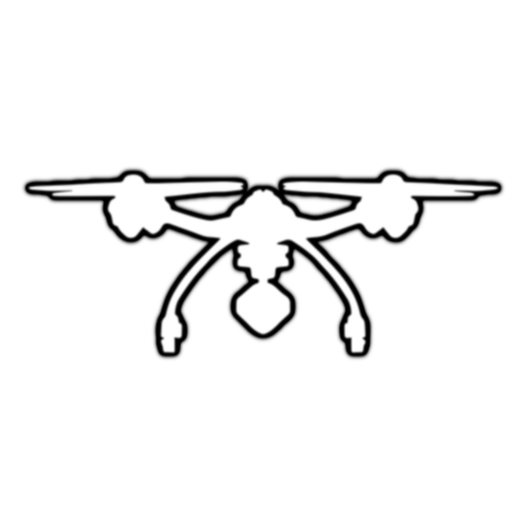
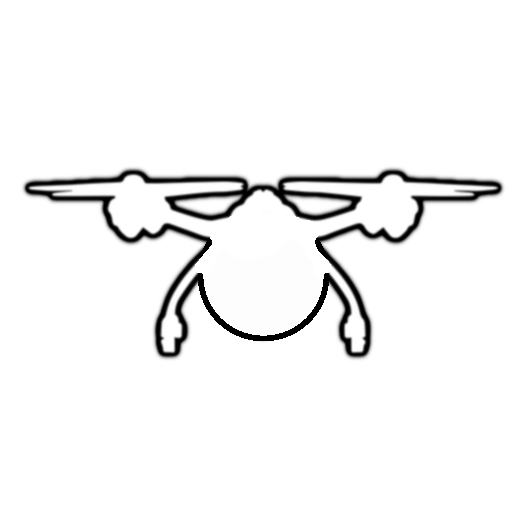
twaek(visualization): display drones id

Changed region(s): [[0.3643, 0.425, 0.6376, 0.6679]]

diff --git a/src/fly_in/visualizer.py b/src/fly_in/visualizer.py
@@ -64,11 +64,9 @@ class VNode(pygame.sprite.Sprite):
             original_height = self.original_text_surface.get_height()
             new_width = int(original_width * scale)
             new_height = int(original_height * scale)
-            new_size_w = max(1, new_width)
-            new_size_h = max(1, new_height)
             self.last_scale = scale
             self.text_surface = pygame.transform.smoothscale(
-                self.original_text_surface, (new_size_w, new_size_h))
+                self.original_text_surface, (new_width, new_height))
             self.text_rect = self.text_surface.get_rect(center=(x, y))
         self.rect.center = (x, y)
         self.text_rect.centerx = self.rect.centerx
@@ -89,7 +87,8 @@ class VConnection(pygame.sprite.Sprite):
 
 
 class VDrone(pygame.sprite.Sprite):
-    def __init__(self, position: Node | Connection,
+    def __init__(self, position: Node | Connection, id: int,
+                 font: pygame.font.Font,
                  screen_x: int, screen_y: int, *groups: Any):
         super().__init__(*groups)
 
@@ -99,17 +98,35 @@ class VDrone(pygame.sprite.Sprite):
         self.image = self.original_image.copy()
         self.rect = self.image.get_rect(center=(screen_x, screen_y))
         self.pos = position
+        self.id = id
         self.last_scale = 1.0
+        self.original_text_surf = font.render(str(self.id),
+                                              True, (0, 0, 0))
+        self.text_rect = self.original_text_surf.get_rect()
+        self.text_surf = self.original_text_surf.copy()
 
     def draw(self, screen: pygame.Surface) -> None:
         screen.blit(self.image, self.rect)
+        screen.blit(self.text_surf, self.text_rect)
 
     def update(self, x: int, y: int, scale: float) -> None:
         if scale != self.last_scale:
             self.last_scale = scale
             self.image = pygame.transform.scale_by(self.original_image, scale)
             self.rect = self.image.get_rect(center=(x, y))
+
+            original_width = self.original_text_surf.get_width()
+            original_height = self.original_text_surf.get_height()
+            new_width = int(original_width * scale)
+            new_height = int(original_height * scale)
+            self.last_scale = scale
+            self.text_surf = pygame.transform.smoothscale(
+                self.original_text_surf, (new_width, new_height))
+            self.text_rect = self.text_surf.get_rect(
+                center=self.rect.center)
         self.rect.center = (x, y)
+        self.text_rect = self.text_surf.get_rect(
+            center=(x, y))
 
 
 class VExitState(Enum):
@@ -299,6 +316,7 @@ class Visualizer():
         self.font_title = pygame.font.SysFont("Segoe UI", 48, bold=True)
         self.font = pygame.font.SysFont("Segoe UI", 24, bold=True)
         self.font_small = pygame.font.SysFont("Segoe UI", 16)
+        self.font_small_bold = pygame.font.SysFont("Segoe UI", 16, bold=True)
         self.screen = screen
 
         self.cur_turn = 0.0
@@ -337,8 +355,9 @@ class Visualizer():
             for connection in map.connections
         ]
         self.vdrones: list[VDrone] = [
-            VDrone(map.start_hub, *self._normalize_pos(map.start_hub))
-            for _ in range(map.nb_drones)
+            VDrone(map.start_hub, id,
+                   self.font_small_bold, *self._normalize_pos(map.start_hub))
+            for id in range(1, map.nb_drones + 1)
         ]
 
         self.NEXT_TURN_EVENT = pygame.USEREVENT + 1
@@ -417,6 +436,10 @@ class Visualizer():
                         self._update_drone_pos()
                         self.turn += 1
                         self.cur_turn = self.turn
+                if event.key == pygame.K_r:
+                    self.turn = 0
+                    self.cur_turn = 0.0
+                    self.paused = False
             if event.type == pygame.MOUSEWHEEL:
                 scale_factor: int = event.y * 0.1
                 if 0.1 < self.scale + scale_factor < 2.0:
@@ -498,6 +521,7 @@ class Visualizer():
         desc = [
             "SPACE: pause",
             "ESC: back to main menu",
+            "R: restart simulation",
             "LEFT/RIGHT ARROW: increase/decrease turn"
         ]
         desc_y: int = 140